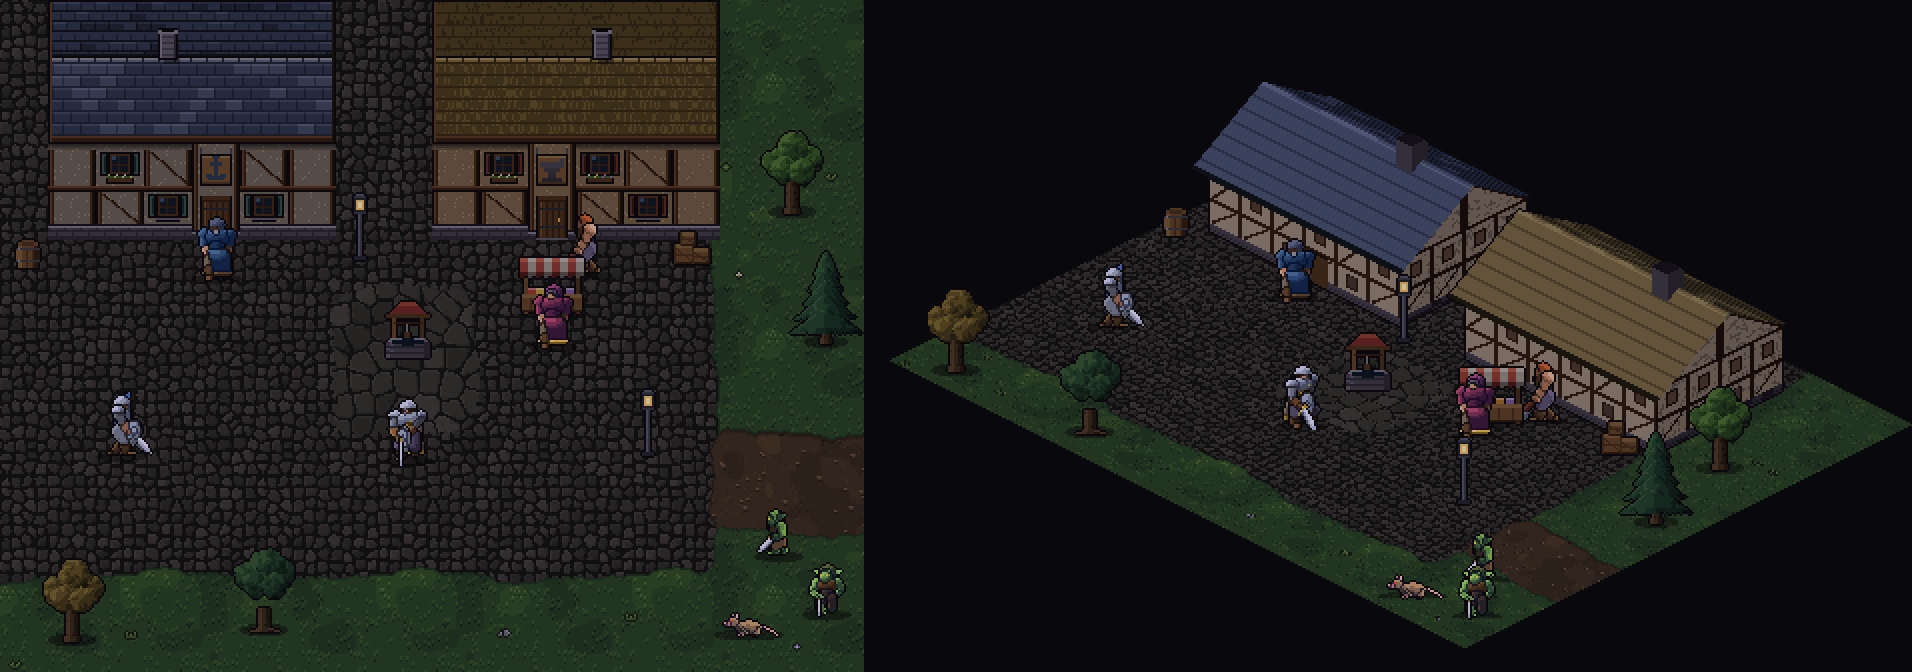
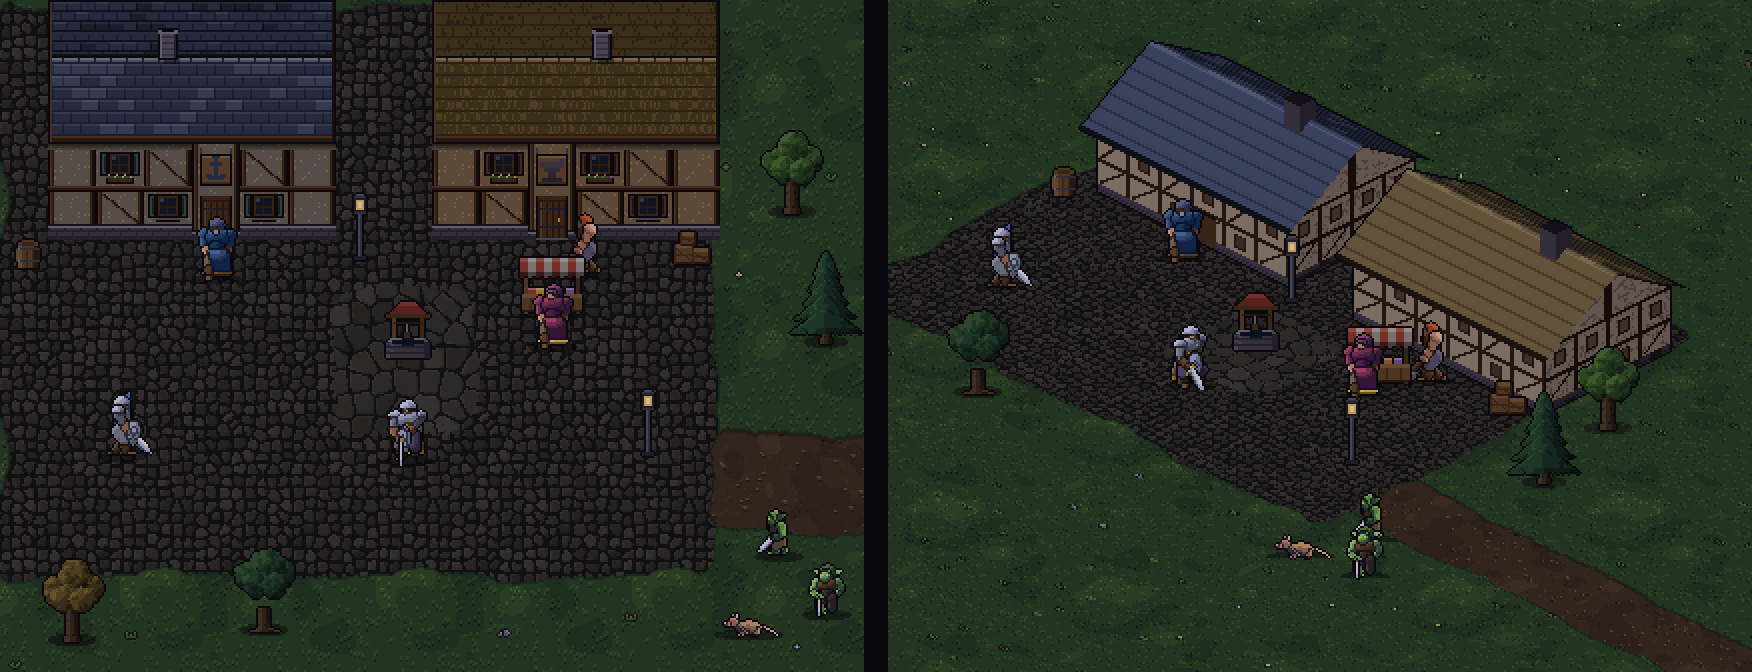
Plan T4C-Charme: Quellen, Top 5, Welle 1 mit Fortschritt; Iso-Probe als Bildschirmausschnitt

diff --git a/scripts/bake-iso-probe.ts b/scripts/bake-iso-probe.ts
@@ -112,11 +112,15 @@ const PROPS: PropDef[] = [
 
 /* ------------------------------------------------ Boden wie im Spiel */
 
-const clampI = (x: number, y: number): number => Math.max(0, Math.min(H - 1, y)) * W + Math.max(0, Math.min(W - 1, x));
-const mat = (x: number, y: number): number => matOf(gid[clampI(x, y)]!, zone[clampI(x, y)]!);
-const ground = new Raster(W * ART, H * ART);
-paintGround(ground, 0, 0, W, H, { mat, waterDist: () => 3 });
-for (let y = 0; y < H; y++) for (let x = 0; x < W; x++) stampDetail(ground, x, y, gid[y * W + x]!, zone[y * W + x]!, x * ART, y * ART);
+// Rand M Kacheln Wiese rundum (der Weg läuft nach rechts weiter), damit die Iso-Ansicht bildschirmfüllend ausgeschnitten werden kann
+const M = 13;
+const inMap = (x: number, y: number): boolean => x >= 0 && y >= 0 && x < W && y < H;
+const tileAt = (x: number, y: number): [number, number] =>
+  inMap(x, y) ? [gid[y * W + x]!, zone[y * W + x]!] : x >= W && (y === 9 || y === 10) ? K.dirt : K.grass;
+const mat = (x: number, y: number): number => matOf(...tileAt(x, y));
+const ground = new Raster((W + 2 * M) * ART, (H + 2 * M) * ART);
+paintGround(ground, -M, -M, W + 2 * M, H + 2 * M, { mat, waterDist: () => 3 });
+for (let y = -M; y < H + M; y++) for (let x = -M; x < W + M; x++) stampDetail(ground, x, y, ...tileAt(x, y), (x + M) * ART, (y + M) * ART);
 void MATS;
 
 /** Figurbild aus dem Sheet in ein Raster stempeln (Fußpunkt bei px, py; gespiegelt bei flip); `put` entscheidet je Pixel */
@@ -145,7 +149,7 @@ function blob(put: (x: number, y: number) => void, cx: number, cy: number, rx: n
 
 function topDown(): Raster {
   const r = new Raster(W * ART, H * ART);
-  r.d.set(ground.d);
+  for (let y = 0; y < r.h; y++) for (let x = 0; x < r.w; x++) r.d[y * r.w + x] = ground.d[(y + M * ART) * ground.w + x + M * ART]!;
   type Draw = { y: number; run: () => void };
   const draws: Draw[] = [];
   for (const hs of HOUSES) {
@@ -184,10 +188,10 @@ const TW = 16; // halbe Rautenbreite
 const TH = 8; // halbe Rautenhöhe
 const UZ = 16; // Pixel je Höheneinheit
 const MARGIN_TOP = 64;
-const IW = (W + H) * TW;
-const IH = (W + H) * TH + MARGIN_TOP + 8;
-const OX = H * TW;
-const proj = (X: number, Y: number, Zh = 0): [number, number] => [OX + (X - Y) * TW, MARGIN_TOP + (X + Y) * TH - Zh * UZ];
+const IW = (W + H + 4 * M) * TW;
+const IH = (W + H + 4 * M) * TH + MARGIN_TOP + 8;
+const OX = (H + 2 * M) * TW;
+const proj = (X: number, Y: number, Zh = 0): [number, number] => [OX + (X - Y) * TW, MARGIN_TOP + (X + Y + 2 * M) * TH - Zh * UZ];
 
 function iso(): Raster {
   const r = new Raster(IW, IH);
@@ -206,11 +210,11 @@ function iso(): Raster {
   for (let v = 0; v < IH; v++) {
     for (let u = 0; u < IW; u++) {
       const a = (u - OX) / TW;
-      const b = (v - MARGIN_TOP) / TH;
+      const b = (v - MARGIN_TOP) / TH - 2 * M;
       const X = (a + b) / 2;
       const Y = (b - a) / 2;
-      if (X < 0 || Y < 0 || X >= W || Y >= H) continue;
-      const p = ground.get(Math.floor(X * ART), Math.floor(Y * ART));
+      if (X < -M || Y < -M || X >= W + M || Y >= H + M) continue;
+      const p = ground.get(Math.floor((X + M) * ART), Math.floor((Y + M) * ART));
       put(u, v, ((p & 255) << 16) | (p & 0xff00) | ((p >> 16) & 255), X + Y, -1);
     }
   }
@@ -355,9 +359,15 @@ function save(name: string, r: Raster, k = 2): void {
 }
 
 const td = topDown();
-const is = iso();
+const full = iso();
+// Bildschirmausschnitt gleicher Größe wie die Draufsicht, mittig auf dem Platz (so sähe das Spiel aus, nicht als Insel im Dunkeln)
+const [cx, cy] = proj(W / 2, H / 2 - 1);
+const is = new Raster(td.w, td.h);
+const x0 = Math.round(cx - td.w / 2), y0 = Math.round(cy - td.h / 2);
+for (let y = 0; y < is.h; y++) for (let x = 0; x < is.w; x++) is.d[y * is.w + x] = full.get(x0 + x, y0 + y) || 0xff0e0a0b;
 save('draufsicht.png', td);
 save('iso.png', is);
+
 // Nebeneinander auf gleicher Höhe (oben bündig)
 const GAP = 12;
 const side = new Raster(td.w + GAP + is.w, Math.max(td.h, is.h));

diff --git a/probe/iso/index.html b/probe/iso/index.html
@@ -21,6 +21,7 @@
 <ul>
   <li><b>Iso:</b> Häuser wirken wie Gebäude mit Tiefe (Vorder- und Seitenwand, Dach, Giebel). Der Platz liegt als Raute, Wege laufen schräg. Mehr Raumgefühl, näher am Look alter Online-RPGs.</li>
   <li><b>Draufsicht:</b> mehr Fläche sichtbar, alles achsenparallel und gut lesbar, die Häuser zeigen nur Dach und Vorderwand.</li>
+  <li>Beide Bilder sind gleich große Bildschirmausschnitte (864×672). Um den Platz herum ist nur Füllwiese.</li>
   <li>Der Boden in der Iso-Probe ist nur umprojiziert (Pflaster wirkt kleiner und weicher). Bei einem echten Umbau würde er für Rauten neu gezeichnet.</li>
   <li>Der Held steht in der Iso-Probe in einer 45°-Schrägansicht, die das Figuren-Skelett ohne neue Kunst hergibt (siehe unten). NPCs und Monster zeigen hier noch die alten Ansichten (vorn/seitlich).</li>
 </ul>

diff --git a/SPEC.md b/SPEC.md
@@ -412,6 +412,8 @@ Auslöser: Nutzer „Der Charme fehlt mir komplett.“ Hauptbeschwerden: **Welt 
 - **Charaktererschaffung über Fragen**, klassenlos, Ausrüstung über Attribut-Anforderungen, Auto-Angriff, Mischbuilds.
 - **Gemeinschaft und Musik:** kleine Server, man kennt jeden; „Glückwunsch!“-Kultur bei Level-ups; Musik wird am meisten gelobt (eingängig), Grafik schon damals veraltet. Kritik: Grind eintönig, kein Questlog, man weiß am Anfang nicht, was tun.
 
+**Quellen:** https://www.t4c.com/cms/ar.html · https://www.t4cbible.com/ArakasQuest · https://winternun.blog/2021/12/02/the-4th-coming-t4c-quests-with-coordinates/ · http://brosmetty.blogspot.com/2013/08/blog-post.html · https://www.superjumpmagazine.com/ancient-worlds-part-4-the-4th-coming/ · https://en.wikipedia.org/wiki/The_4th_Coming · https://gamebrain.co/game/the-4th-coming · https://mein-mmo.de/8-alte-mmorpgs/9/ (Massively OP „Game Archaeologist“ war gesperrt; die Fan-Leitfäden schreiben teils voneinander ab).
+
 **Vermutet** (nicht belegt): Der Charme entsteht aus Entdecken ohne Wegweiser, langsamem bedeutsamem Aufstieg, festen bekannten Orten mit Namen, wiedererkennbarer Musik je Ort und dem Gefühl, dass Stadt und Welt bewohnt sind (online durch andere Spieler, im Solo muss NPC-Leben das ersetzen). Beute eher feste, benannte Gegenstände mit bekannter Seltenheit als Zufallsaffixe.
 
 ### Ist-Stand (gespielt 2026-11-04, Dev-Server, 1280x800, Aschenhafen + Roggenfelder; Zahlen aus `data.ts`/`world.ts`)
@@ -439,7 +441,8 @@ Auslöser: Nutzer „Der Charme fehlt mir komplett.“ Hauptbeschwerden: **Welt 
 
 ### Ansicht: Probe Draufsicht gegen Iso
 - **Probe:** `scripts/bake-iso-probe.ts` backt denselben Stadtausschnitt (2 Häuser, Brunnen, Marktstand, Held, 4 NPCs, 2 Goblins, Ratte) mit dem Spielcode einmal als Draufsicht und einmal als Iso 2:1 (Rauten 64×32 bei Maßstab 2, Häuser als 3D-Kästen mit Fachwerk, Satteldach, Giebel, Tiefenpuffer). Ausgabe `probe/iso/` (index.html, `vergleich.png`), im Dev-Server unter `/probe/iso/`. Das Spiel ist unverändert.
-- **Befund Figuren:** Das Rig kann per `yaw = ±45°` Schrägansichten (vorn-schräg, hinten-schräg) ohne neue Kunst backen (`probe/iso/held-richtungen.png`). Iso braucht also 2 zusätzliche Ansichten je Sheet (+~66 % Backzeit/Speicher), keine neue Kunst.
+- **Befund Figuren:** Beim Helden belegt: Das Rig backt per `yaw = ±45°` Schrägansichten (vorn-schräg, hinten-schräg) ohne neue Kunst (`probe/iso/held-richtungen.png`). Zweibeinige Monster und NPCs laufen über dasselbe Rig (`humSpec` → `posed`), dort vermutlich gleich; Tiere (`monsterRig.js`) ungeprüft. Iso braucht 2 zusätzliche Ansichten je Sheet (+~66 % Backzeit/Speicher).
+- **Rahmen der Probe:** beide Bilder sind gleich große Bildschirmausschnitte (864×672), um den Platz herum ist nur Füllwiese. Bei Iso sieht man auf gleicher Fläche etwas weniger Karte (Rauten, Häuserhöhe).
 - **Aufwand kompletter Umbau (Sim, Server, Spielstände unberührt):**
   | Teil | Dateien | Art | Aufwand |
   |---|---|---|---|
@@ -448,7 +451,7 @@ Auslöser: Nutzer „Der Charme fehlt mir komplett.“ Hauptbeschwerden: **Welt 
   | Wände, Klippen, Gruft-/Dungeonwände als Iso-Blöcke | `world/props.ts` (`wallTile`) | neu | L |
   | Häuser als Kästen (Wände, Dach, Giebel, Türen an allen Seiten, Dach ausblenden beim Betreten, Fensterlicht) | `houses.ts`, `GameScene.ts` (Häuser) | neu (Probe-Ansatz) | L |
   | Props als stehende Bilder, Zäune/Stände je Richtung | `world/props.ts`, `town.ts` | übernehmen/anpassen | S–M |
-  | Figuren: 2 Schrägansichten, Richtungswahl nach Laufrichtung | `figure.ts`, `hero.ts`, `monster.ts`, `monsterRig.js`, `npc.ts`, `figureWorker.ts` | anpassen | M |
+  | Figuren: 2 Schrägansichten, Richtungswahl nach Laufrichtung (Held belegt, Zweibeiner vermutlich gleich, Tiere ungeprüft) | `figure.ts`, `hero.ts`, `monster.ts`, `monsterRig.js`, `npc.ts`, `figureWorker.ts` | anpassen | M (Tiere evtl. M–L) |
   | pixelfx-Ankerpunkte, Namen, Lichtstrahlen, Minimap (bleibt Draufsicht), HUD | `fx.ts`, `pixelfx.ts`, `minimap.ts` | meist übernehmen | S |
   | Render-Tests | `groundLook.test.ts`, `atmosphere.test.ts` u. a. | anpassen | S |
   Gesamt grob **4–6 Sessions** (vergleichbar mit dem Welt-Umbau 2026-11-04). Risiko: Wandkanten und Dungeons sind der größte Brocken; Boden nur umzuprojizieren (wie in der Probe) geht schnell, wirkt aber weicher.
@@ -458,8 +461,8 @@ Allgemein: je Paket frische Session, Entscheidungen vorher per AskUserQuestion, 
 
 **P1 Lebende Städte** (ansichtsunabhängig, Beschwerde Welt leer, Aufwand M)
 - Ziel: Aschenhafen und Felsenwacht wirken bewohnt.
-- Änderungen: 8–15 Bewohner je Stadt ohne Funktion (Wache auf Runde, Kinder, Bauer mit Korb, Fischer am Kai, Betrunkener, Ausrufer), Tiere (Hühner, Katze, Hund, Krähen, Möwen am Hafen), Tagesablauf nach Uhrzeit (Markt am Tag, nachts Wache mit Fackel, Leute gehen in die Häuser), kurze Zurufe als Sprechblasen (eigene Texte, Gerüchte zu Orten), Stadtgeräusche (Hammer an der Schmiede, Stimmengewirr). Rein clientseitig, damit Sim, Golden-Tests und Mehrspieler unberührt bleiben.
-- Dateien: neu `src/render/townLife.ts`, `src/render/npc.ts` (Bewohner-Looks), `src/render/audio.ts` (Stadtgeräusche), ein Haken in `GameScene.ts`.
+- Änderungen: leeren Platz verdichten (Marktstände, Karren, Kisten, Aushangbrett, Banner; Props tragen in beide Ansichten), 8–15 Bewohner je Stadt ohne Funktion (Wache auf Runde, Kinder, Bauer mit Korb, Fischer am Kai, Betrunkener, Ausrufer), Tiere (Hühner, Katze, Hund, Krähen, Möwen am Hafen), Tagesablauf nach Uhrzeit (Markt am Tag, nachts Wache mit Fackel, Leute gehen in die Häuser), kurze Zurufe als Sprechblasen (eigene Texte, Gerüchte zu Orten), Stadtgeräusche (Hammer an der Schmiede, Stimmengewirr). Bewohner und NPCs in Hörweite gratulieren beim Level-up („Glückwunsch!“-Ersatz, hört auf das bestehende Ereignis `levelUp`). Rein clientseitig, damit Sim, Golden-Tests und Mehrspieler unberührt bleiben.
+- Dateien: neu `src/render/townLife.ts`, `src/render/npc.ts` (Bewohner-Looks), `src/render/audio.ts` (Stadtgeräusche), `src/render/town.ts` + `scripts/gen_map.py`/`src/data/aschenthron.json` (Platz-Props), ein Haken in `GameScene.ts`.
 
 **P2 Gespräche mit Themen** (ansichtsunabhängig, Beschwerde Welt leer, Aufwand M)
 - Ziel: Entdecken wie bei T4C, ohne Tipp-Frust.
@@ -468,7 +471,7 @@ Allgemein: je Paket frische Session, Entscheidungen vorher per AskUserQuestion, 
 
 **P3 Fortschritt mit Gewicht** (ansichtsunabhängig, Beschwerde Progression, Aufwand M–L)
 - Ziel: Stufen fühlen sich verdient an, Beute hat Namen.
-- Änderungen: (a) Level-Kurve strecken (Zielwert vom Nutzer, siehe Entscheidungen), Bot nachmessen; (b) Echo der Welt beim Level-up: NPCs in Hörweite gratulieren, Ausrufer verkündet Meilensteine (Solo-Ersatz für „Glückwunsch!“-Kultur); (c) **benannte Funde** je Monsterfamilie mit fester, kleiner Chance und eigenem Namen, Bestiarium zeigt Drops nach dem ersten Fund; (d) **Kill-Zähler-Ziele** (nach 100/500 Goblins Titel, Händlerware oder Auftrag); (e) optional Charaktererschaffung über Fragen statt freier Startpunkte.
+- Änderungen: (a) Level-Kurve strecken (Zielwert vom Nutzer, siehe Entscheidungen), Bot nachmessen; (b) Meilenstein-Titel bei Stufe 10/20/30 (das Gratulieren der Bewohner macht P1); (c) **benannte Funde** je Monsterfamilie mit fester, kleiner Chance und eigenem Namen, Bestiarium zeigt Drops nach dem ersten Fund; (d) **Kill-Zähler-Ziele** (nach 100/500 Goblins Titel, Händlerware oder Auftrag); (e) optional Charaktererschaffung über Fragen statt freier Startpunkte.
 - Dateien: `src/sim/data.ts` (Kurve, Funde), `src/sim/items.ts` (Funde im Drop-Wurf), `src/sim/world.ts` (Kill-Zähler), `src/render/ui.ts` + `src/render/achievements.ts` (Bestiarium, Titel), `src/sim/save.ts`.
 
 **P4 Kampf mit Gefahr** (ansichtsunabhängig, Beschwerde Kampf, Aufwand M)
@@ -496,11 +499,12 @@ Allgemein: je Paket frische Session, Entscheidungen vorher per AskUserQuestion, 
 - Änderungen: Aschental wird Startinsel; zweite Region per Schiff ab Aschenhafen, freigeschaltet über Stufe + Gold + Questkette (optional guter/böser Weg); neue Karte, Monster, Stadt.
 - Dateien: `scripts/gen_map.py`, `src/data/*.json`, `src/sim/data.ts`, `src/sim/world.ts`, `src/sim/save.ts` (Karten-/Regionwechsel).
 
-**P9 Ansicht** (nur wenn der Nutzer Iso wählt, Aufwand 4–6 Sessions, siehe Tabelle oben). Danach erst die Stadt verdichten (mehr Stände, Karren, Kisten, Banner auf dem leeren Platz in `gen_map.py`/`town.ts`), weil Props und Häuser von der Ansicht abhängen.
+**P9 Ansicht** (nur wenn der Nutzer Iso wählt, Aufwand 4–6 Sessions, siehe Tabelle oben). Ansichtsabhängig sind vor allem Häuser, Wände und Boden; Props und Figuren aus P1/P5 tragen hinüber.
 
 ### Reihenfolge und Aufteilung auf Sessions
-- **Welle 1 (parallel, getrennte Dateien):** P1 Lebende Städte (`townLife.ts`, `npc.ts`, `audio.ts`, Haken in `GameScene.ts`) · P2 Gespräche (`data.ts` nur `NPC_TOPICS`, `quests.ts`, `save.ts`, `ui.ts`) · P7 Musik (`music.ts`). Gemeinsam berührt nur `GameScene.ts` (P1) – P2/P7 lassen es aus.
-- **Welle 2 (nacheinander, alle in `world.ts`/`data.ts`):** P3 Fortschritt → P4 Kampf → P6 Tag/Nacht. P5 Wildnis kann parallel dazu laufen, solange es nur `wildlife.ts`/`props.ts`/Karte anfasst (Patrouille erst nach P4).
+**Top 5:** P1 Lebende Städte · P3 Fortschritt mit Gewicht · P2 Gespräche mit Themen · P4 Kampf mit Gefahr · P5 Wildnis mit Leben (je eine Hauptbeschwerde zuerst; P7 Musik ist klein und läuft nebenher).
+- **Welle 1 (parallel, getrennte Dateien):** P1 Lebende Städte (`townLife.ts`, `npc.ts`, `audio.ts`, `town.ts`, Karte, Haken in `GameScene.ts`) · P3 Fortschritt (`data.ts`, `items.ts`, `world.ts`, `save.ts`, `ui.ts`, `achievements.ts`) · P7 Musik (`music.ts`). Keine Datei doppelt; Karte (`gen_map.py`/JSON) nur P1.
+- **Welle 2:** P2 Gespräche (nach P3, beide in `data.ts`/`save.ts`/`ui.ts`) parallel zu P5 Wildnis, solange P5 nur `wildlife.ts`/`props.ts`/Karte anfasst. Danach P4 Kampf → P6 Tag/Nacht (beide `world.ts`/`data.ts`, nacheinander; die kämpfende Patrouille aus P5 erst nach P4).
 - **Welle 3:** P8 Insel; P9 Ansicht, falls gewählt (blockiert dann alle Render-Pakete, also nicht parallel zu P1/P5).
 
 ### Offene Entscheidungen für den Nutzer
